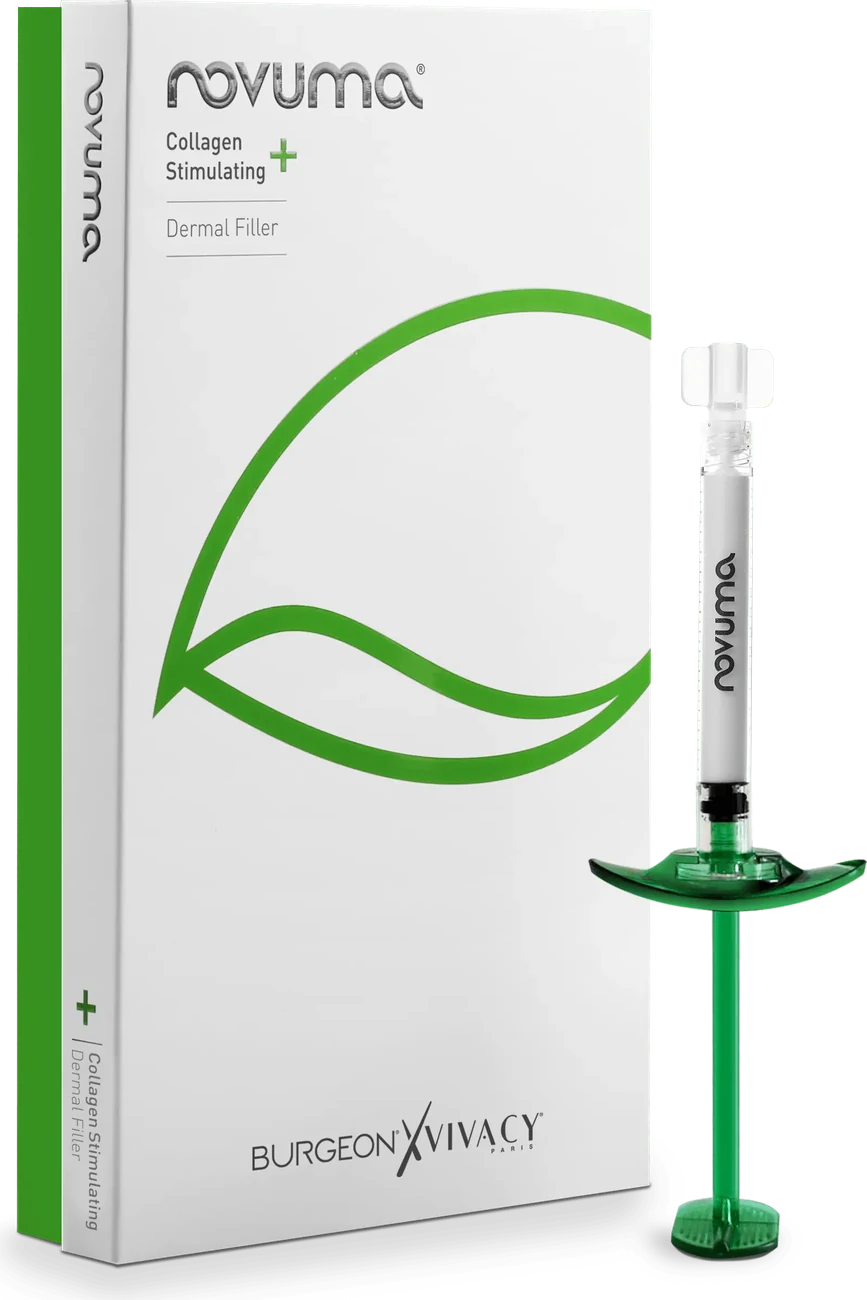
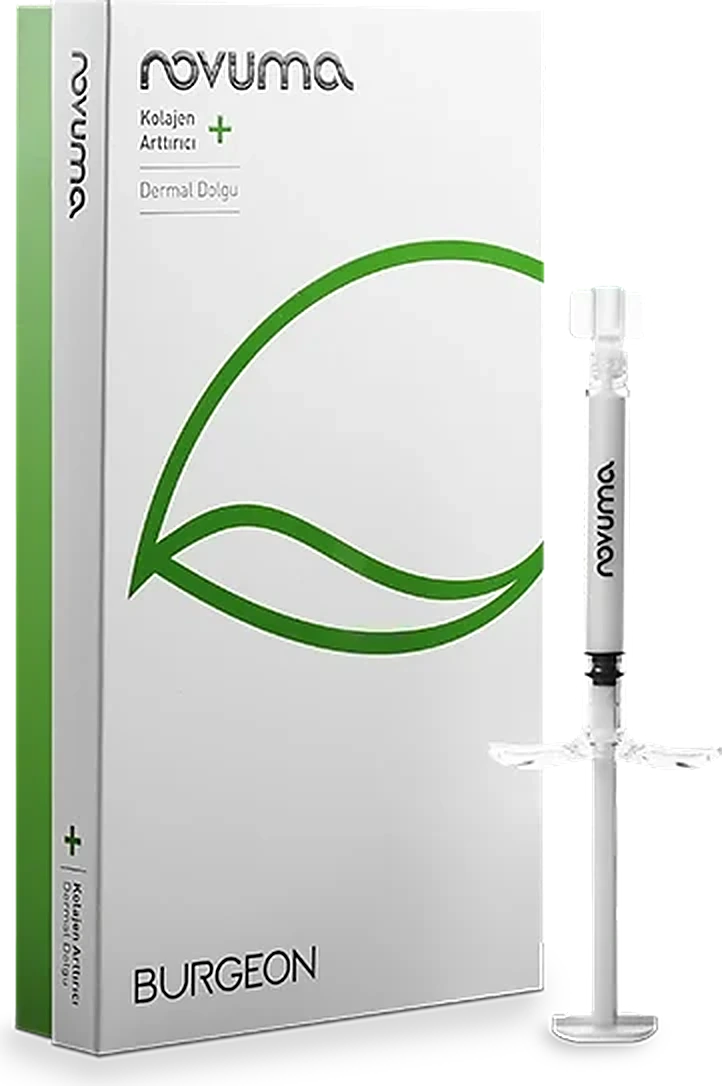
Replace Novuma hero image with the new box and syringe shot
Swaps the Novuma product photo for the cleaner box-and-full-syringe
composition, cropped to a transparent cut-out and sharpened via a 2x
resample for retina crispness; keeps the tall inset placement.

Claude-Session: https://claude.ai/code/session_01UzzFpU9kqMj8uXatXA4yNt

diff --git a/novuma-penang.html b/novuma-penang.html
@@ -277,7 +277,7 @@ gtag('config', 'G-ZZTS438D2E');
       <a href="dermal-fillers-penang.html" class="btn-line"><span class="bar"></span>All Injectables</a>
     </div>
   </div>
-  <img class="tp-hero-media tp-hero-media-tall tp-hero-media-inset" src="assets/treatments/novuma.webp" alt="Novuma collagen-stimulating dermal filler box and syringe at CANVAS Medical Clinic, Penang" width="867" height="1300" loading="lazy">
+  <img class="tp-hero-media tp-hero-media-tall tp-hero-media-inset" src="assets/treatments/novuma.webp" alt="Novuma collagen-stimulating dermal filler box and syringe at CANVAS Medical Clinic, Penang" width="722" height="1086" loading="lazy">
   <img class="tp-hero-watermark" src="assets/canvas-mark.png" alt="" aria-hidden="true" width="120" height="134" loading="lazy">
 </header>
 
